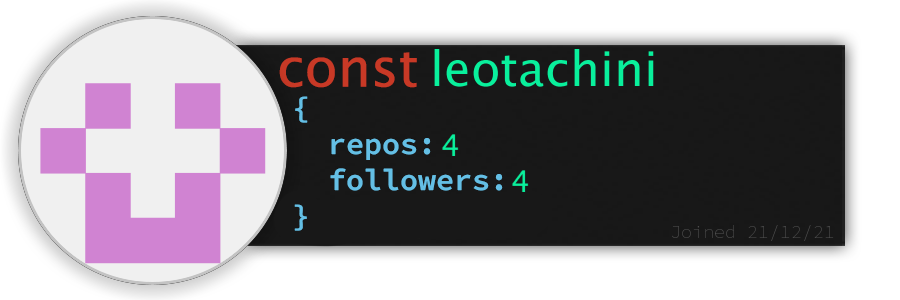
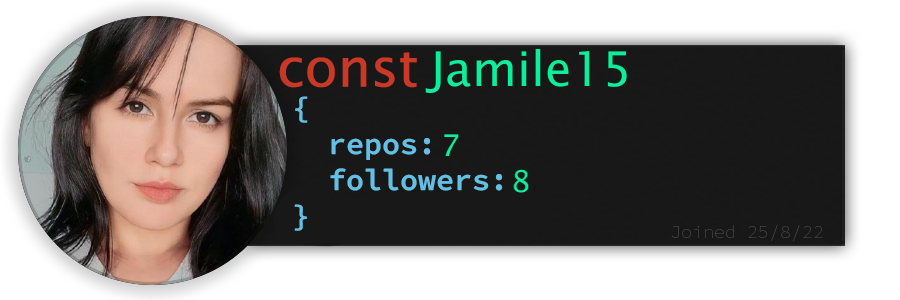
Update README.md

diff --git a/src/replacers/randomImage.js b/src/replacers/randomImage.js
@@ -1,5 +1,5 @@
 module.exports = async function () {
-  imageTypes=['code', 'hacker', 'internet', 'computer', 'web', 'java', 'program', 'javascript']
+  imageTypes=['code', 'hacker', 'internet', 'computer', 'web', 'java', 'technology', 'javascript']
 
   const randomImageType = Math.floor(Math.random() *  imageTypes.length)
 

diff --git a/README.md b/README.md
@@ -4,9 +4,9 @@
 <hr>
 
 - 😄 18 years old;
-- ⌛  3 Years, 1 Month and 29 Days since I started programming;
+- ⌛  3 Years, 1 Month and 30 Days since I started programming;
 - 📚 IT technician and studying information systems;
-- 🌱 Currently learning Next, TypeScript, Prisma, Yeoman generator;
+- 🌱 Currently learning Next, TypeScript, Prisma;
 - 🔭 I’m currently working as a dev at BrBits Sistemas;
 - <img height = "20em" src="https://em-content.zobj.net/thumbs/120/google/350/flag-brazil_1f1e7-1f1f7.png"/>   From Brazil.
 
@@ -82,7 +82,7 @@
 <div align="center">
 <p>Random follower of the day: </p>
 
-<a href="https://github.com/leotachini" alt="lelotachini"><img style="height:150px;" src=./src/resources/images/randomFollower.png alt="Follower of the day"/></a>
+<a href="https://github.com/Jamile15" alt="Mile Vieira"><img style="height:150px;" src=./src/resources/images/randomFollower.png alt="Follower of the day"/></a>
 
 <p>My last follower: </p>
 
@@ -93,7 +93,7 @@
 
 *This section is updated via Javascript.*
 <div align="center">
-  <img align="center" alt="Random unsplash image" width="1000" height="500" src="https://source.unsplash.com/random/1000x500/?code" />
+  <img align="center" alt="Random unsplash image" width="1000" height="500" src="https://source.unsplash.com/random/1000x500/?internet" />
 </div>
 
 

diff --git a/README_TEMPLATE.md b/README_TEMPLATE.md
@@ -6,7 +6,7 @@
 - 😄 18 years old;
 - ⌛  %{myexperience};
 - 📚 IT technician and studying information systems;
-- 🌱 Currently learning Next, TypeScript, Prisma, Yeoman generator;
+- 🌱 Currently learning Next, TypeScript, Prisma;
 - 🔭 I’m currently working as a dev at BrBits Sistemas;
 - <img height = "20em" src="https://em-content.zobj.net/thumbs/120/google/350/flag-brazil_1f1e7-1f1f7.png"/>   From Brazil.
 
